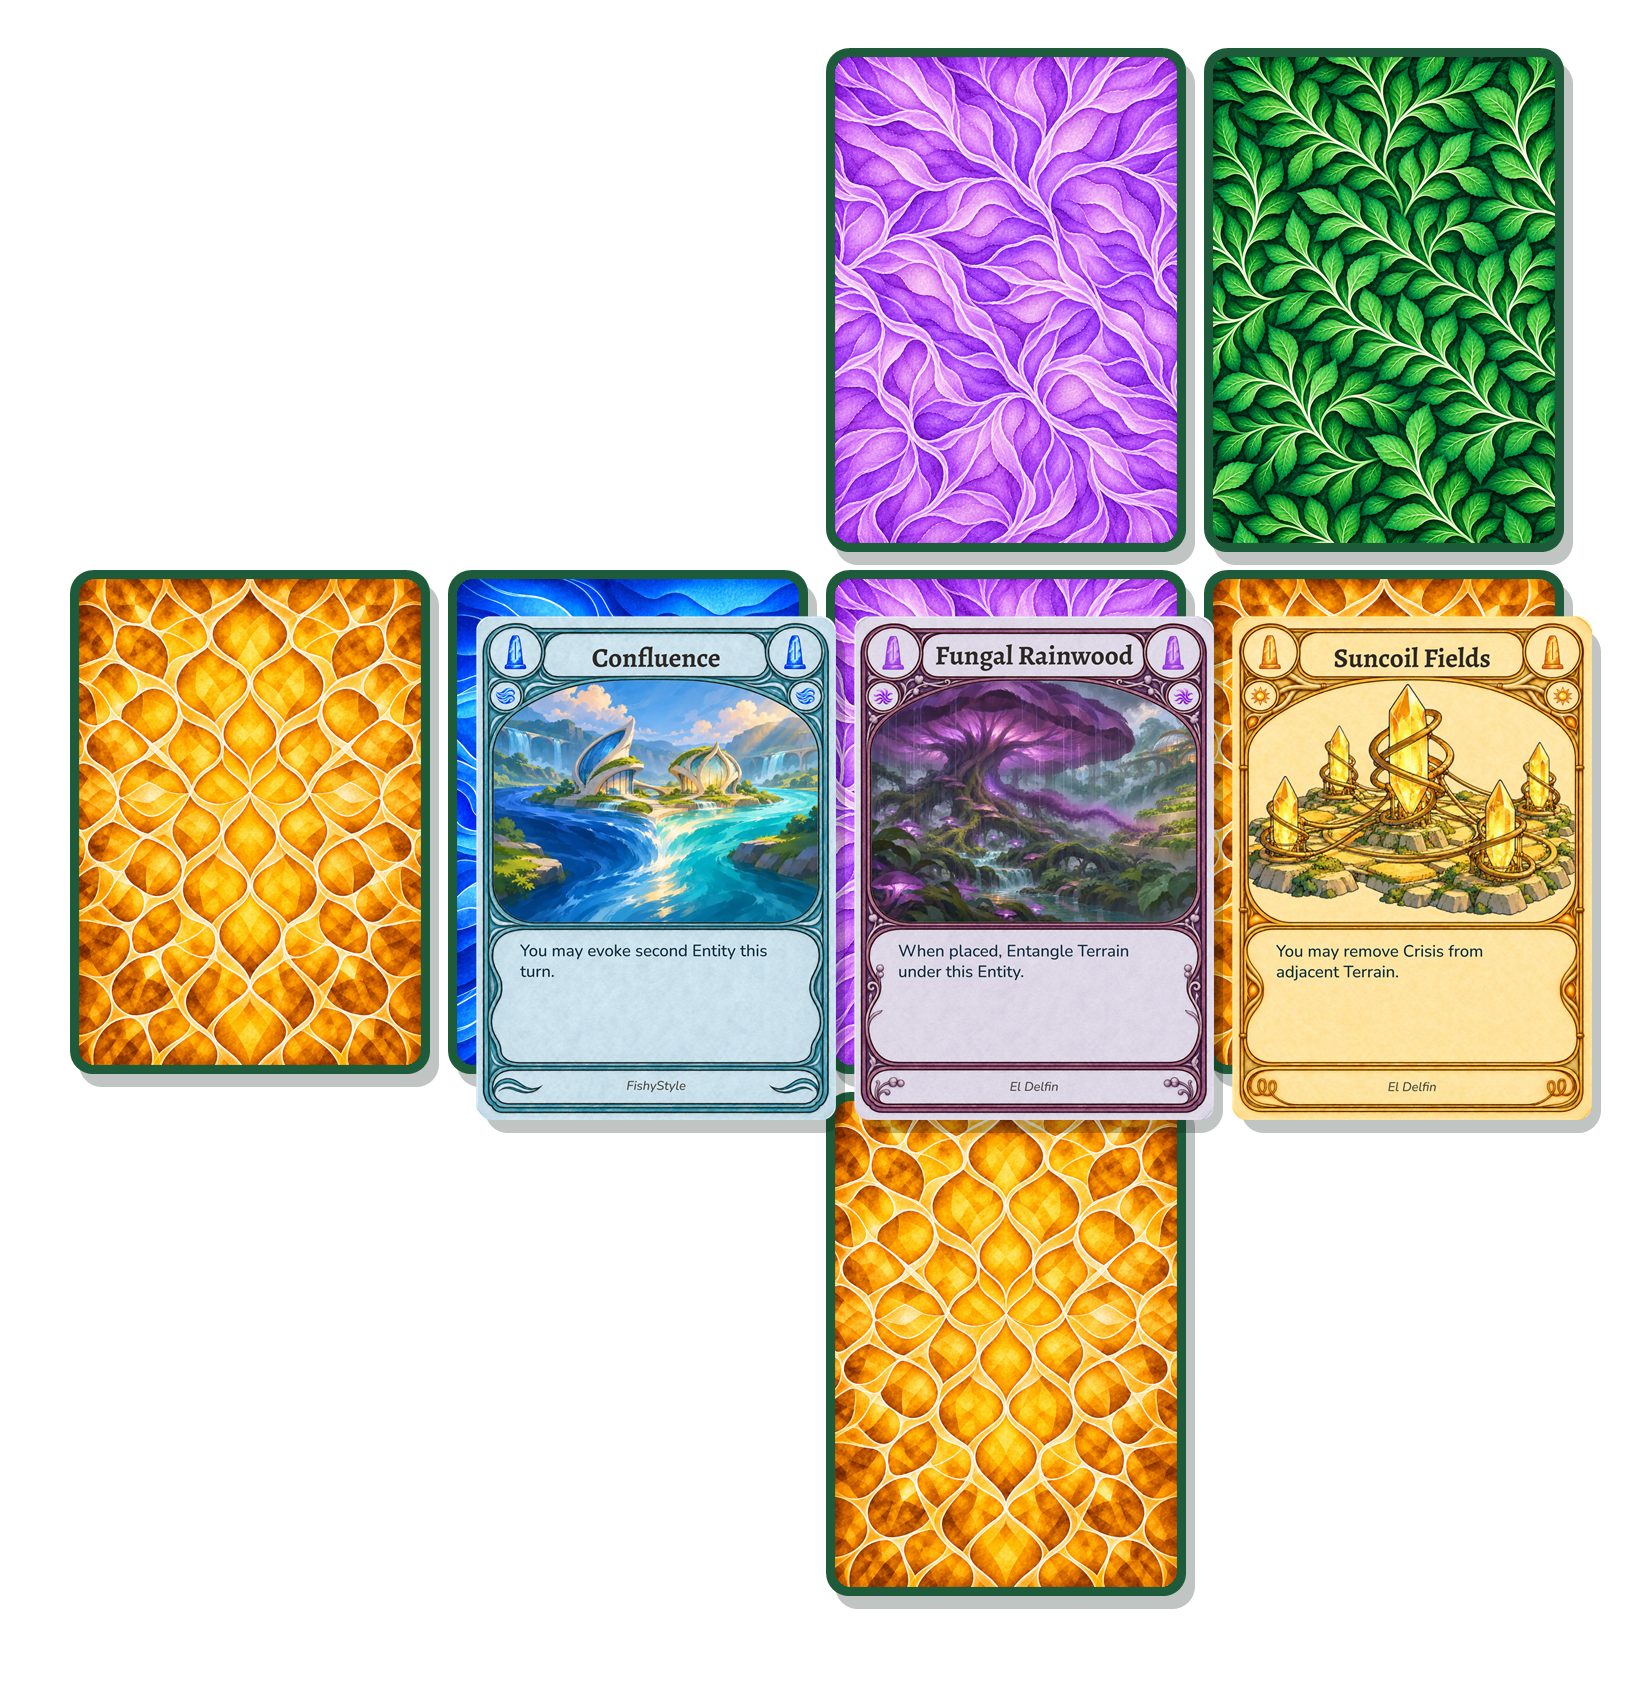
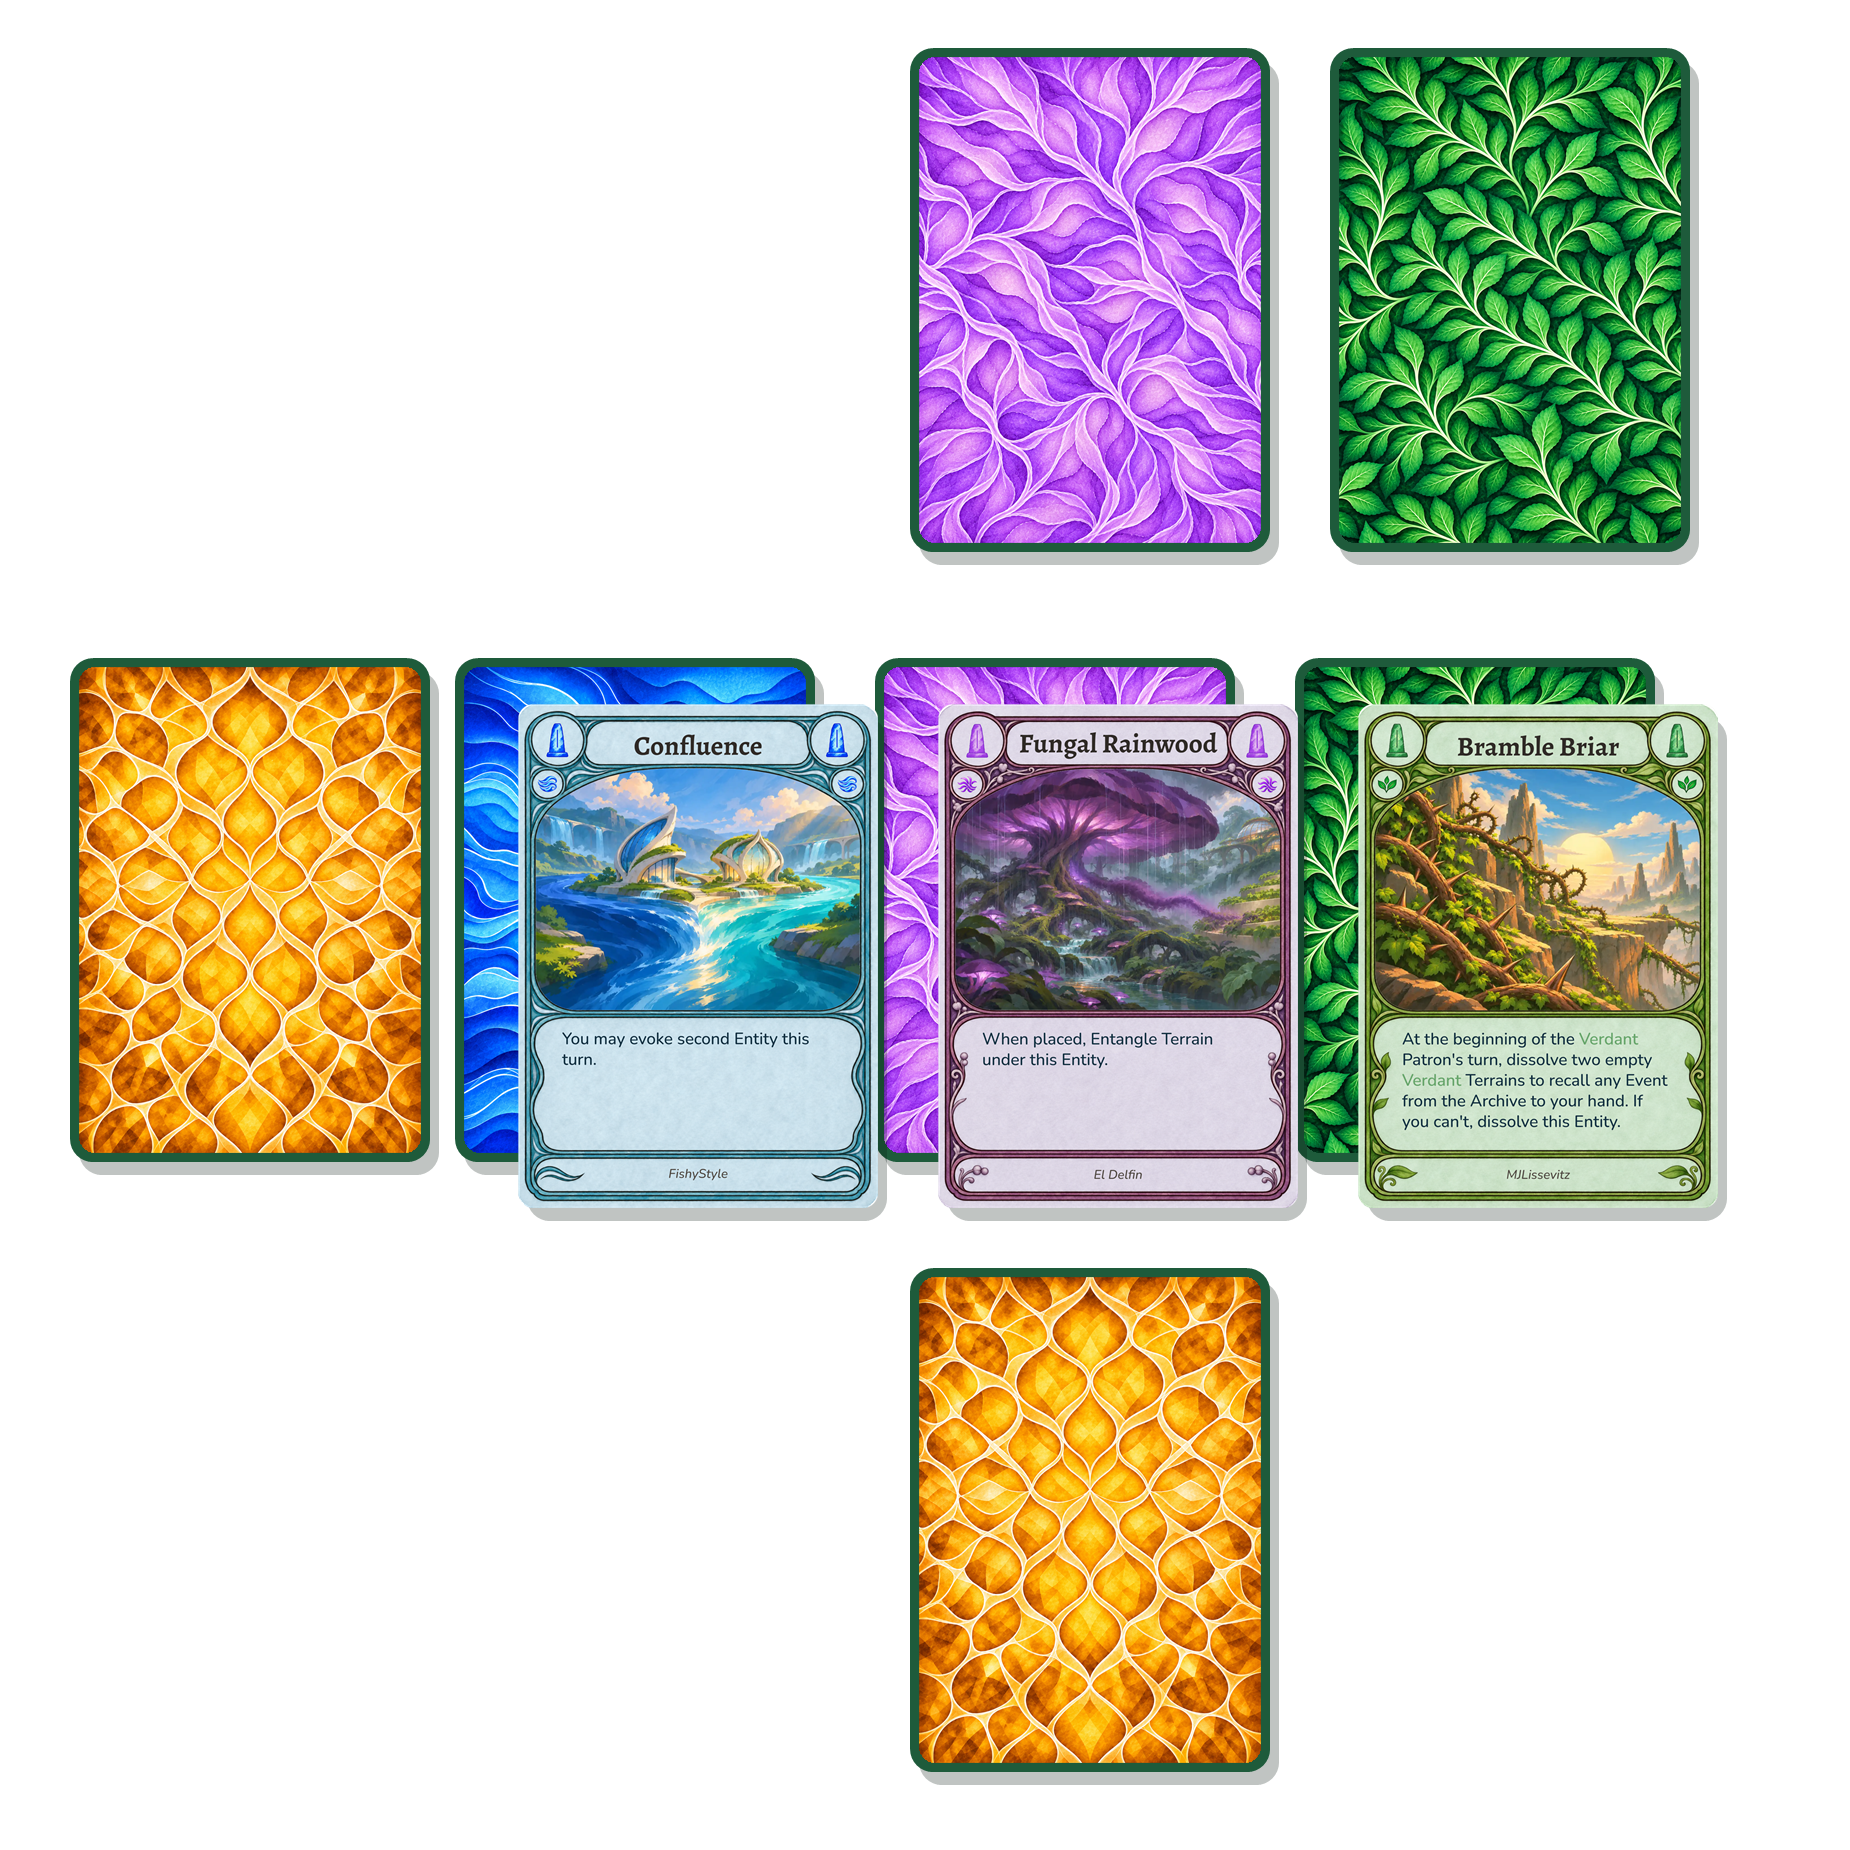
Space About cards and replace Suncoil with Bramble Briar

diff --git a/helianthe/index.html b/helianthe/index.html
@@ -280,7 +280,7 @@
             <p>Each player becomes a Patron with a different vision for Aurelia's future. Instead of defeating an opponent in combat, players build a shared landscape from Terrain cards. The first to fulfill their Patron's vision wins.</p>
           </div>
           <div class="about-grid">
-            <article class="about-section about-principles"><h2>A world built together in different ways</h2><div class="vision-layout"><div class="vision-copy"><p>Helianthe takes place in Aurelia, a land recovering after the Great Eclipse. Players build one shared landscape from cards while pursuing different visions of renewal.</p><p>The first Terrain card starts in the center of the table. Each later card joins the growing layout by a side or a corner; Entities can then occupy matching Terrain.</p><h3>Factions and visions</h3><p>Aurelia's factions offer four paths forward: Verdant restores ecosystems, Brightworks builds responsibly powered infrastructure, Flowbound connects communities, and Dreamwardens preserve memory.</p><h3>At a glance</h3><ul><li>One growing layout of rectangular Terrain cards, with a separate Terrain supply for each player.</li><li>Four Terrain types: Symbiosis, Flow, Verdant, and Radiance.</li><li>Two card types: Entities, which stay on Terrain cards, and one-time Events.</li><li>Players take alternating turns until a Patron fulfills their individual victory goal.</li></ul><p class="info-actions"><button type="button" data-open-tab="rules">Learn the rules</button><button type="button" data-open-tab="factions">Explore the factions</button></p></div><a class="vision-board-link" href="./assets/vision-board-transparent.png?v=real-cards-1" target="_blank" rel="noopener" aria-label="Open the Helianthe Terrain card layout illustration"><img class="vision-board-image" src="./assets/vision-board-transparent.png?v=real-cards-1" alt="Seven adjacent Terrain cards using original Terrain art, with Confluence, Fungal Rainwood, and Suncoil Fields Entity cards on matching Terrain"></a></div></article>
+            <article class="about-section about-principles"><h2>A world built together in different ways</h2><div class="vision-layout"><div class="vision-copy"><p>Helianthe takes place in Aurelia, a land recovering after the Great Eclipse. Players build one shared landscape from cards while pursuing different visions of renewal.</p><p>The first Terrain card starts in the center of the table. Each later card joins the growing layout by a side or a corner; Entities can then occupy matching Terrain.</p><h3>Factions and visions</h3><p>Aurelia's factions offer four paths forward: Verdant restores ecosystems, Brightworks builds responsibly powered infrastructure, Flowbound connects communities, and Dreamwardens preserve memory.</p><h3>At a glance</h3><ul><li>One growing layout of rectangular Terrain cards, with a separate Terrain supply for each player.</li><li>Four Terrain types: Symbiosis, Flow, Verdant, and Radiance.</li><li>Two card types: Entities, which stay on Terrain cards, and one-time Events.</li><li>Players take alternating turns until a Patron fulfills their individual victory goal.</li></ul><p class="info-actions"><button type="button" data-open-tab="rules">Learn the rules</button><button type="button" data-open-tab="factions">Explore the factions</button></p></div><a class="vision-board-link" href="./assets/vision-board-transparent.png?v=real-cards-2" target="_blank" rel="noopener" aria-label="Open the Helianthe Terrain card layout illustration"><img class="vision-board-image" src="./assets/vision-board-transparent.png?v=real-cards-2" alt="Seven adjacent Terrain cards using original Terrain art, with Confluence, Fungal Rainwood, and Bramble Briar Entity cards on matching Terrain"></a></div></article>
           </div>
         </div>
         <div class="art-scroll-rail" aria-hidden="true"><button class="art-scroll-thumb" type="button" tabindex="-1"></button></div>
